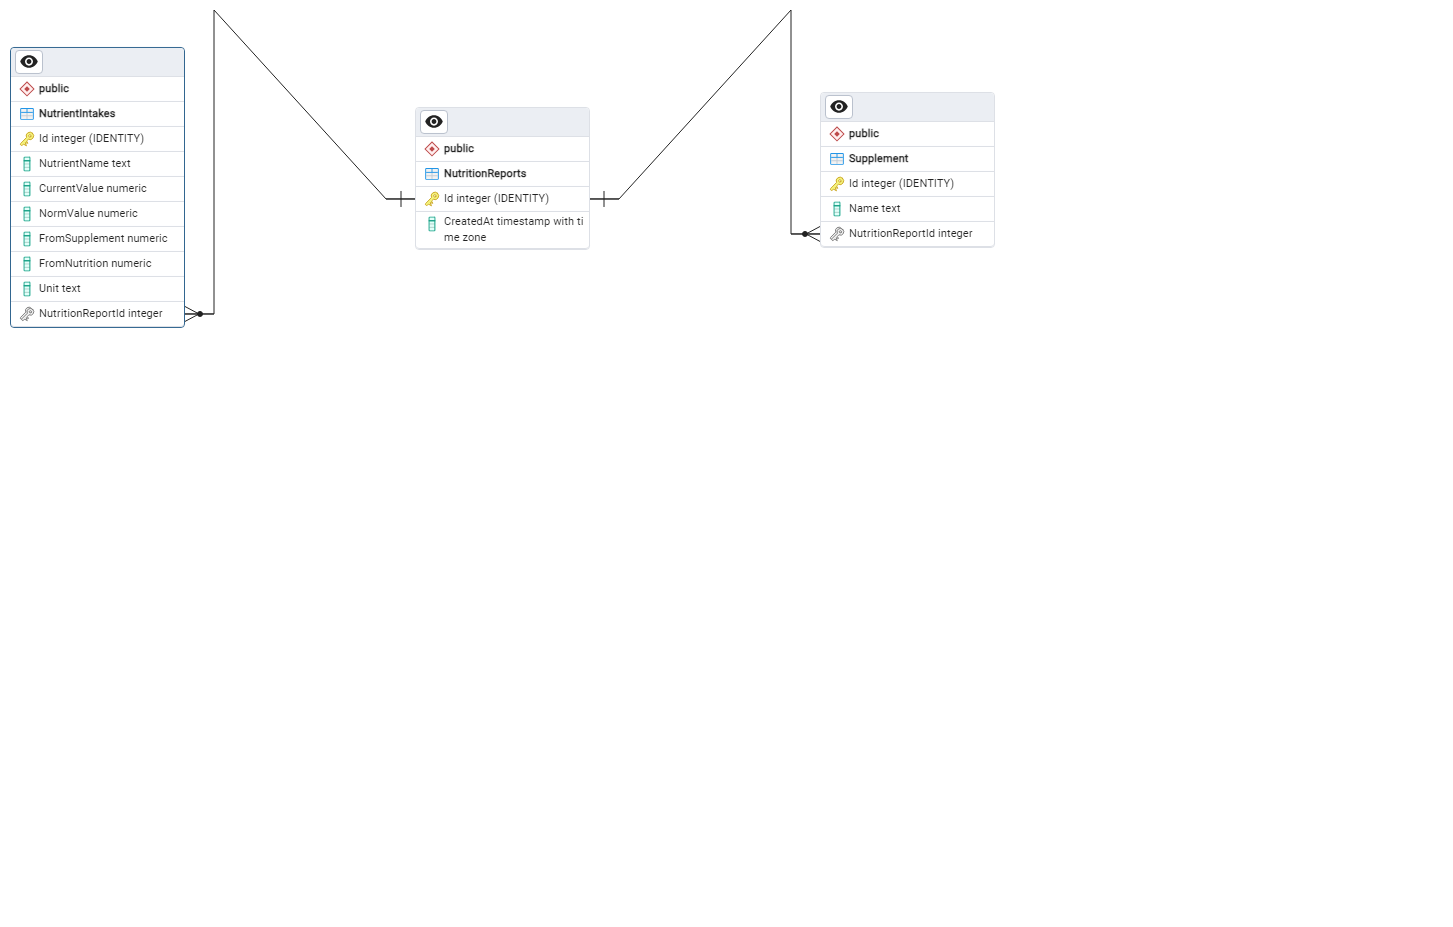
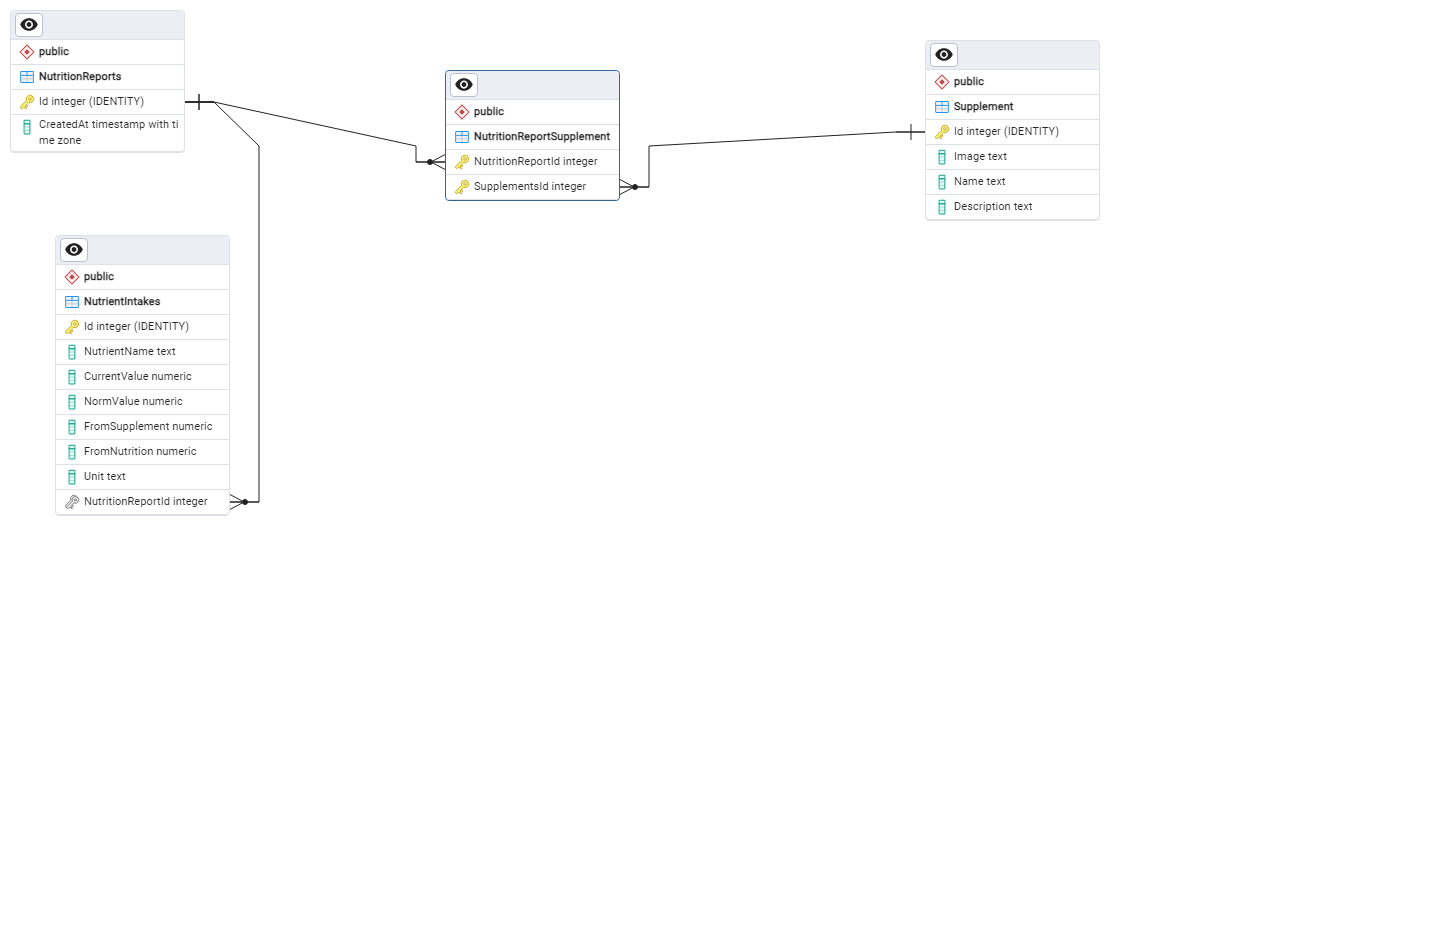
Add many to many relationship between nutrition reports and supplements

Changed region(s): [[0.0, 0.0, 0.1858, 0.5437], [0.5265, 0.0604, 0.7433, 0.2718], [0.2787, 0.0604, 0.4646, 0.2718]]

diff --git a/Biogenom.Api/Data/AppDbContext.cs b/Biogenom.Api/Data/AppDbContext.cs
@@ -5,10 +5,10 @@ namespace Biogenom.Api.Data
 {
     public class AppDbContext : DbContext
     {
-        public AppDbContext(DbContextOptions<AppDbContext> options) : base(options) { }
-
         public DbSet<NutritionReport> NutritionReports { get; set; }
         public DbSet<NutrientIntake> NutrientIntakes { get; set; }
+
+        public AppDbContext(DbContextOptions<AppDbContext> options) : base(options) { }
 
         protected override void OnModelCreating(ModelBuilder modelBuilder)
         {
@@ -16,11 +16,10 @@ namespace Biogenom.Api.Data
                 .HasMany(r => r.Intakes)
                 .WithOne()
                 .OnDelete(DeleteBehavior.Cascade);
-            
+
             modelBuilder.Entity<NutritionReport>()
                 .HasMany(r => r.Supplements)
-                .WithOne()
-                .OnDelete(DeleteBehavior.Cascade);
+                .WithMany();
         }
     }
 }

diff --git a/Biogenom.Api/Entities/Supplement.cs b/Biogenom.Api/Entities/Supplement.cs
@@ -3,5 +3,7 @@ namespace Biogenom.Api.Entities;
 public class Supplement
 {
     public int Id { get; set; }
+    public string Image { get; set; }
     public string Name { get; set; }
+    public string Description { get; set; }
 }
